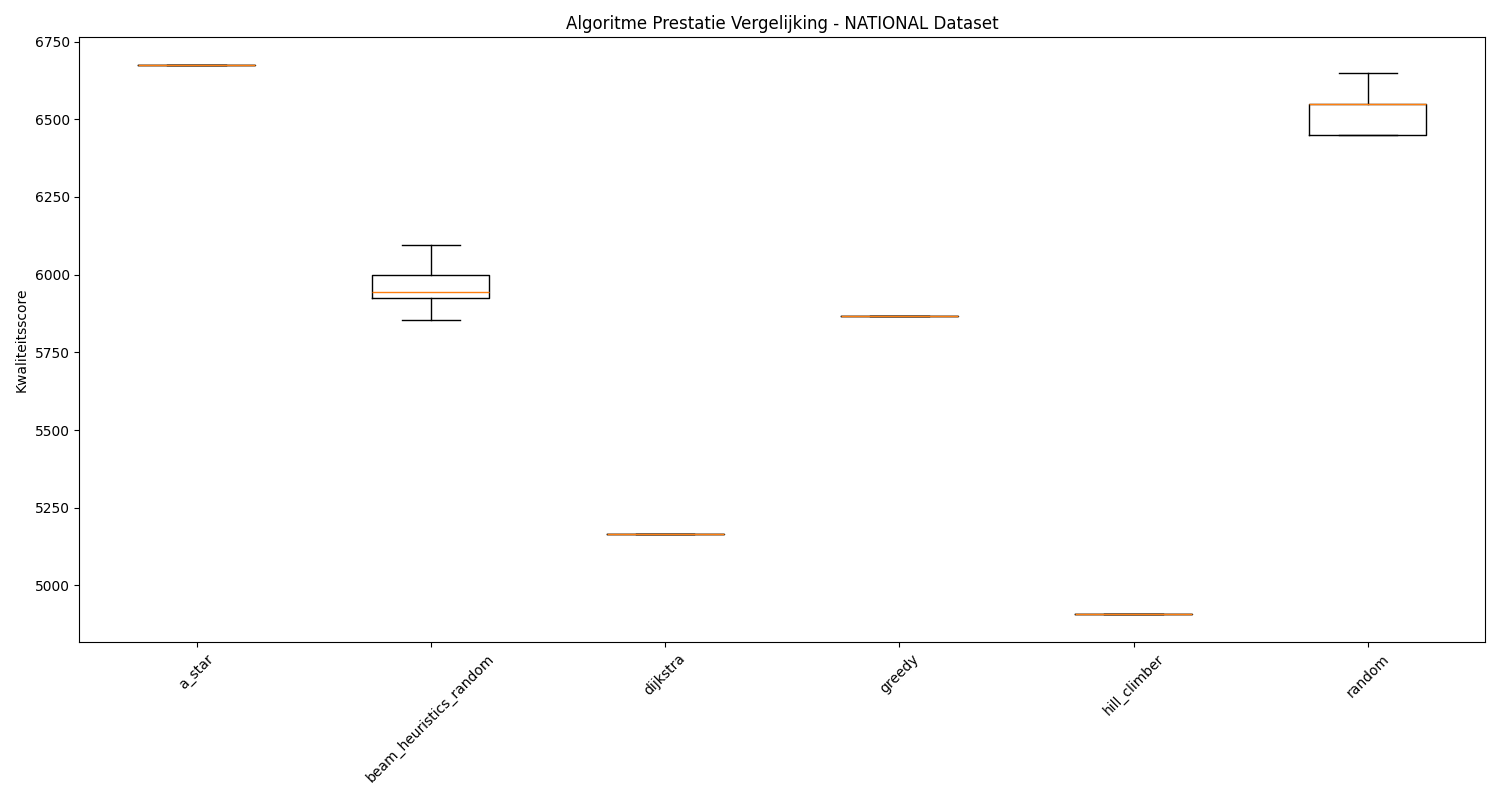
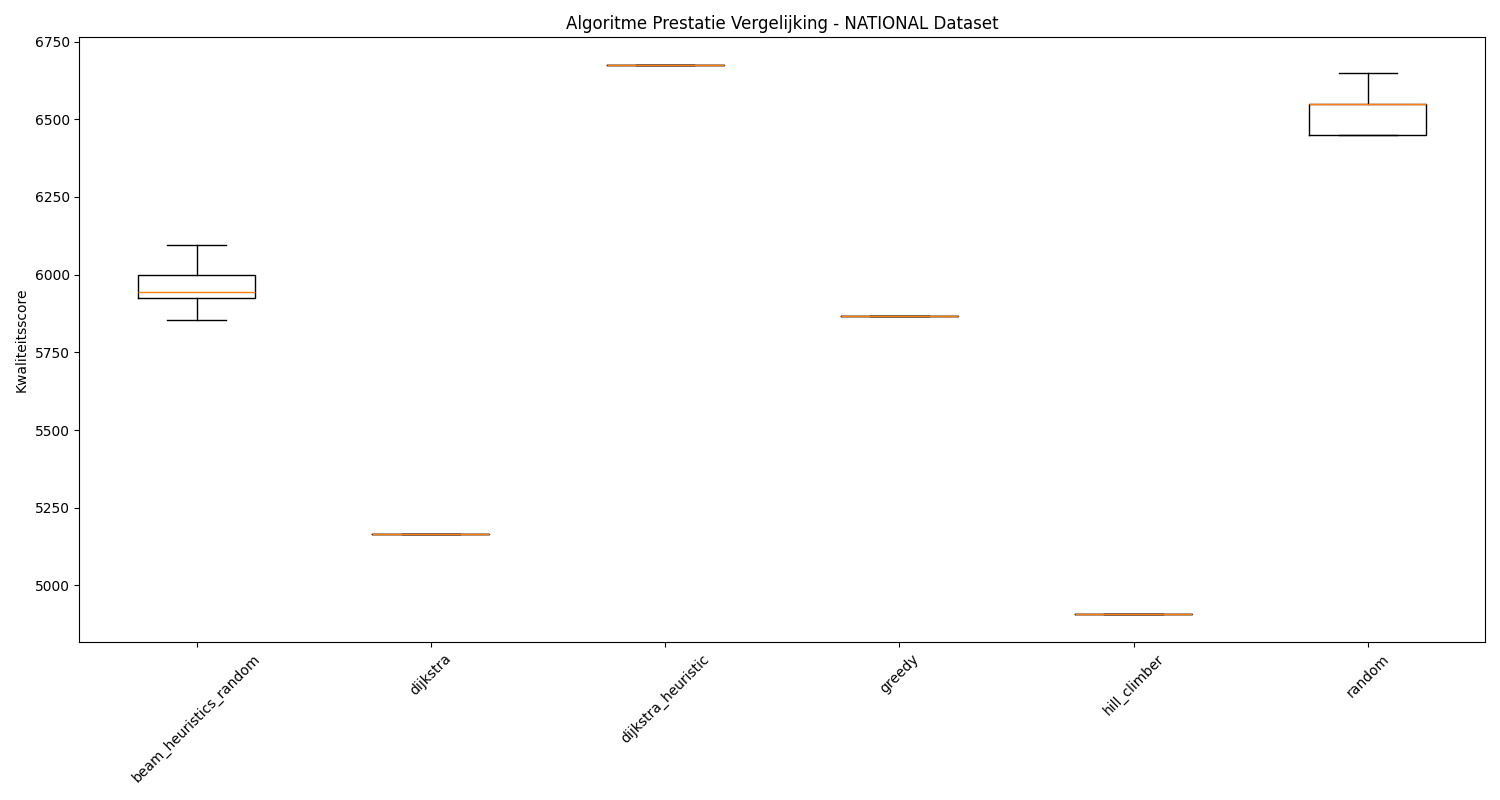
A_star -> Dijkstra_heuristiek

diff --git a/main.py b/main.py
@@ -17,7 +17,7 @@ from code.algorithms.beam_greedy import BeamSearchAlgorithm
 from code.algorithms.beam_greedy_random import BeamSearchAlgorithmV2
 from code.algorithms.beam_heuristics_random import BeamSearchAlgorithmV3
 from code.algorithms.hill_climber import HillClimber
-from code.algorithms.a_star_algorithm import AStarAlgorithm
+from code.algorithms.dijkstra_heuristic import DijkstraHeuristicAlgorithm
 from code.algorithms.dijkstra_algorithm import DijkstraAlgorithm
 from code.constants import HOLLAND_CONFIG, NATIONAL_CONFIG
 from code.experiments.run_experiments import run_algorithm_experiments
@@ -36,7 +36,7 @@ def parse_arguments():
                            default='holland', help='Dataset om te gebruiken (holland/national)')
     run_parser.add_argument('--algorithm', type=str, 
                            choices=['random', 'greedy', 'beam_greedy', 'beam_greedy_random',
-                                   'beam_heuristics_random', 'hill_climber', 'a_star', 'dijkstra'],
+                                   'beam_heuristics_random', 'hill_climber', 'dijkstra_heuristic', 'dijkstra'],
                            default='random', help='Algoritme om te gebruiken voor optimalisatie')
     run_parser.add_argument('--iterations', type=int, default=1000,
                            help='Aantal iteraties voor toepasselijke algoritmes')
@@ -45,7 +45,7 @@ def parse_arguments():
     exp_parser = subparsers.add_parser('experiment', help='Voer experimenten uit')
     exp_parser.add_argument('--algorithm', type=str, 
                            choices=['random', 'greedy', 'beam_greedy', 'beam_greedy_random',
-                                   'beam_heuristics_random', 'hill_climber', 'a_star', 'dijkstra', 'all'],
+                                   'beam_heuristics_random', 'hill_climber', 'dijkstra_heuristic', 'dijkstra', 'all'],
                            default='all', help='Algoritme om te experimenteren')
     exp_parser.add_argument('--dataset', type=str, choices=['holland', 'national', 'both'],
                            default='both', help='Dataset voor experimenten')
@@ -78,7 +78,7 @@ def create_algorithm(name: str, network: RailNetwork, config: dict):
         'beam_greedy_random': BeamSearchAlgorithmV2,
         'beam_heuristics_random': BeamSearchAlgorithmV3,
         'hill_climber': HillClimber,
-        'a_star': AStarAlgorithm,
+        'dijkstra_heuristic': DijkstraHeuristicAlgorithm,
         'dijkstra': DijkstraAlgorithm
     }
     
@@ -122,7 +122,7 @@ def run_experiments(args) -> None:
     """
     if args.algorithm == 'all':
         algorithms = ['random', 'greedy', 'beam_greedy', 'beam_greedy_random',
-                     'beam_heuristics_random', 'hill_climber', 'a_star', 'dijkstra']
+                     'beam_heuristics_random', 'hill_climber', 'dijkstra_heuristic', 'dijkstra']
     else:
         algorithms = [args.algorithm]
     

diff --git a/code/algorithms/dijkstra_heuristic.py b/code/algorithms/dijkstra_heuristic.py
@@ -1,4 +1,4 @@
-# a_star_algorithm.py
+# dijkstra_heuristic.py
 
 from heapq import heapify, heappop, heappush
 from typing import List, Tuple, Set
@@ -6,10 +6,10 @@ from classes.rail_network import RailNetwork
 from classes.route import Route
 from classes.connection import Connection
 
-class AStarAlgorithm:
+class DijkstraHeuristicAlgorithm:
     def __init__(self, rail_network: RailNetwork, time_limit: int = 120, max_routes: int = 7):
         """
-        Initialiseert AStarAlgorithm
+        Initialiseert Dijkstra's algoritme met heuristiek
         Args:
             rail_network: rail network
             time_limit: maximale tijdsduur van trajecten

diff --git a/code/experiments/run_experiments.py b/code/experiments/run_experiments.py
@@ -86,7 +86,7 @@ if __name__ == "__main__":
         'beam_greedy',
         'beam_heuristics_random',
         'hill_climber',
-        'a_star',
+        'dijkstra_heuristic',
         'dijkstra'
     ]
     

diff --git a/README.md b/README.md
@@ -29,7 +29,7 @@ Voor het vinden van de optimale lijnvoering hebben we gebruikgemaakt van verschi
 5. **Beam Heuristics Random**: Het algoritme maakt gebruik van een heuristiek die rekening houdt met de tijd die nodig is om een nieuwe route toe te voegen, het aantal ongebruikte stations en een penalty voor het starten van een nieuw traject.
 6. **Hill Climber**: Een iteratief optimalisatie-algoritme dat kleine wijzigingen aanbrengt in een willekeurige lijnvoering, waarbij het kan starten vanaf een willekeurig station of de route volledig vervangt. Het proces gaat door zolang de score \(K\) verbetert.
 7. **Dijkstra's**: Het algoritme start bij het station met de meeste ongebruikte verbindingen. Vervolgens worden de kortste paden naar alle andere stations berekend, waarbij alleen ongebruikte verbindingen worden meegenomen. Het algoritme kiest het station dat het verst bereikbaar is als eindstation van een traject.
-8. **A\***: Een algoritme dat een uitbreiding is op Dijkstra's algoritme. Dit algoritme kiest, in tegenstelling tot Dijkstra's algoritme, als start station het station met de minste verbindingen. Ook worden routes gecombineerd als dit mogelijk is. Hierbij geldt dan dat de verbinding van het laatste station van traject 1 naar het eerste station van traject 2 moet bestaan (om traject 1 en traject 2 te kunnen combineren). 
+8. **Dijkstra's Heuristic**: Een algoritme dat een uitbreiding is op Dijkstra's algoritme. Dit algoritme kiest, in tegenstelling tot Dijkstra's algoritme, als start station het station met de minste verbindingen. Ook worden routes gecombineerd als dit mogelijk is. Hierbij geldt dan dat de verbinding van het laatste station van traject 1 naar het eerste station van traject 2 moet bestaan (om traject 1 en traject 2 te kunnen combineren). 
 
 ## Aan de slag
 **Handleiding voor het gebruik van de main-functie**
@@ -66,7 +66,7 @@ Het script heeft drie hoofdmodi:
 
 - --algorithm: Kies het algoritme dat je wilt gebruiken. 
     - Er zijn verschillende opties:
-        - random, greedy, beam_greedy, beam_greedy_random, beam_heuristics_random, hill_climber, a_star, dijkstra
+        - random, greedy, beam_greedy, beam_greedy_random, beam_heuristics_random, hill_climber, dijkstra_heuristic, dijkstra
         - Standaard wordt het random algoritme gekozen.
 - --dataset: Kies de dataset die je wilt gebruiken: holland of national.
     - Standaard wordt holland gekozen.
@@ -77,7 +77,7 @@ Het script heeft drie hoofdmodi:
 
 - --algorithm: Kies het algoritme dat je wilt gebruiken. 
     - Er zijn verschillende opties:
-        - random, greedy, beam_greedy, beam_greedy_random, beam_heuristics_random, hill_climber, a_star, dijkstra, all
+        - random, greedy, beam_greedy, beam_greedy_random, beam_heuristics_random, hill_climber, dijkstra_heuristic, dijkstra, all
         - Standaard wordt all uitgekozen
 - --dataset: Kies de dataset die je wilt gebruiken: holland, national, both.
     - Standaard wordt both gekozen.
